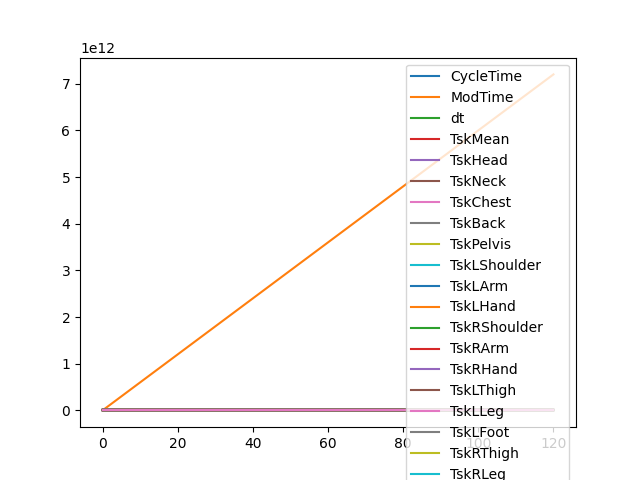
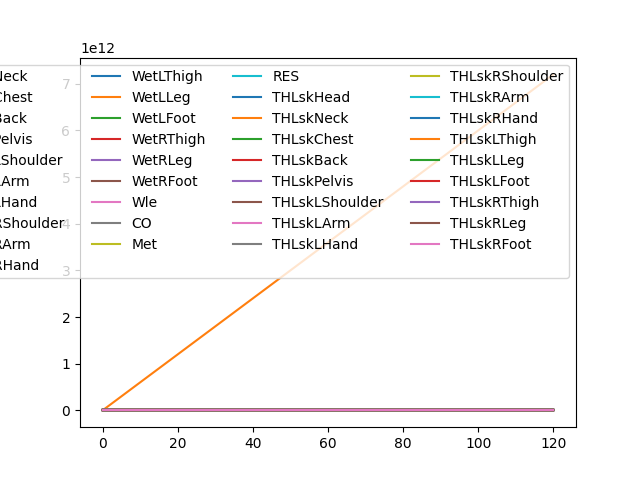
a

diff --git a/app.py b/app.py
@@ -88,18 +88,27 @@ def index():
 
 
 
-    model = jos3.JOS3(height=1.7, weight=70, age=30)  # Builds a model
+    model = jos3.JOS3(height=1.8, weight=80, age=30)  # Builds a model
     # Set the first condition
-    model.To = (shtdb+shtr)/2  # Operative temperature [oC]
+    model.To = (tdb+tr)/2  # Operative temperature [oC]
     model.RH = rh  # Relative humidity [%]
     model.Va = vr  # Air velocity [m/s]
     model.PAR = met  # Physical activity ratio [-]
+    model._clo=clo
     model.simulate(120)  # Exposure time = 60 [min]
+
+
 
 
     # Show the results
     df = pandas.DataFrame(model.dict_results())  # Make pandas.DataFrame
-    
+    df.plot()
+    plt.legend(ncol=8) # add a legend
+    plt.savefig("static\images\plot.png")
+    plt.clf() # Clear the current figure for the next iteration
+    # Récupérer les poignées et les étiquettes de la légende
+
+
     df.TskMean.plot(color = '#1F77B4') # red color in hexadecimal
     plt.title("Mean Skin Temperature") # add a title
     plt.xlabel("Time (minutes)")
@@ -124,12 +133,21 @@ def index():
     plt.savefig("static\images\plotHead.png")
     plt.clf() # Clear the current figure for the next iteration    
 
-    df.TskRHand.plot(color = '#D62728', label = "TskRHand") # red color in hexadecimal
-    plt.legend(["TskRHand"]) # add a legend
-    df.TcrRHand.plot(color = '#2CA02C', label = "TcrRHand")
-    plt.title("Skin temperature Hands") # add a title
+    df.THLskRHand.plot(color = '#2CA02C') # red color in hexadecimal
+    plt.title("température latente hand") # add a title
     plt.xlabel("Time (minutes)")
-    plt.ylabel("Skin Temperature (°C)")
+    plt.ylabel("THLskRHand Temperature (W)")
+    plt.legend(["THLskRHand"]) # add a legend
+    plt.savefig("static\images\plotTHLskRHand.png")
+    plt.clf() # Clear the current figure for the next iteration   
+
+    df.TskRHand.plot(color = '#16A085', label = "TskRHand") # red color in hexadecimal
+    df.TcrRHand.plot(color = '#0E6655', label = "TcrRHand")
+    df.TskLHand.plot(color = '#E67E22', label = "TskLHand") # red color in hexadecimal
+    df.TcrLHand.plot(color = '#935116', label = "TcrLHand")
+    plt.title("Temperature Hands") # add a title
+    plt.xlabel("Time (minutes)")
+    plt.ylabel(" Temperature (°C)")
     plt.legend() # add a legend
     plt.savefig("static\images\plotRHand.png")
     plt.clf() # Clear the current figure for the next iteration
